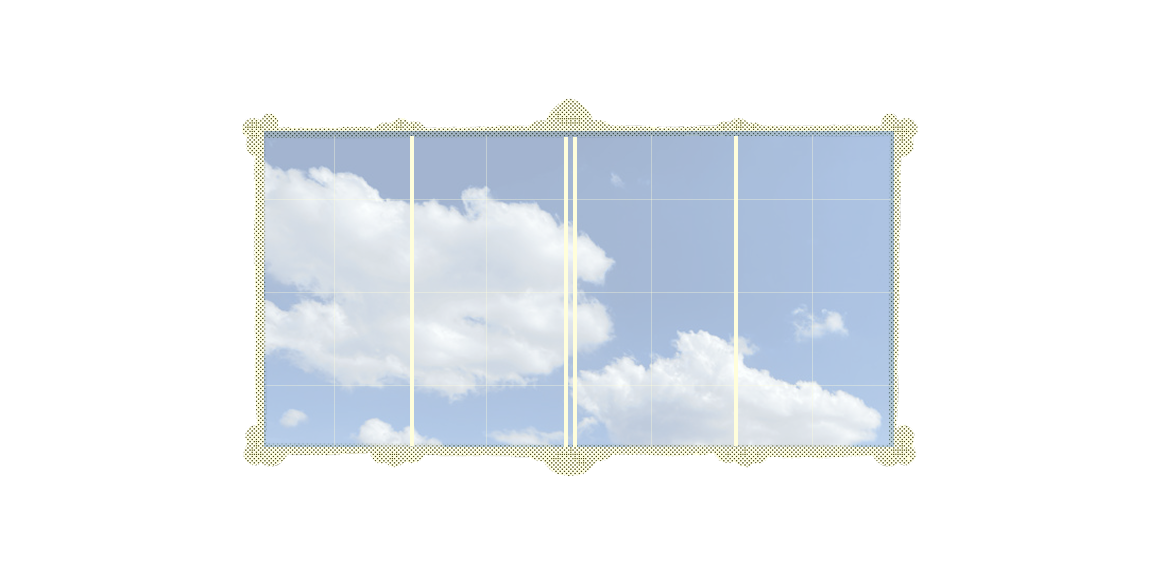
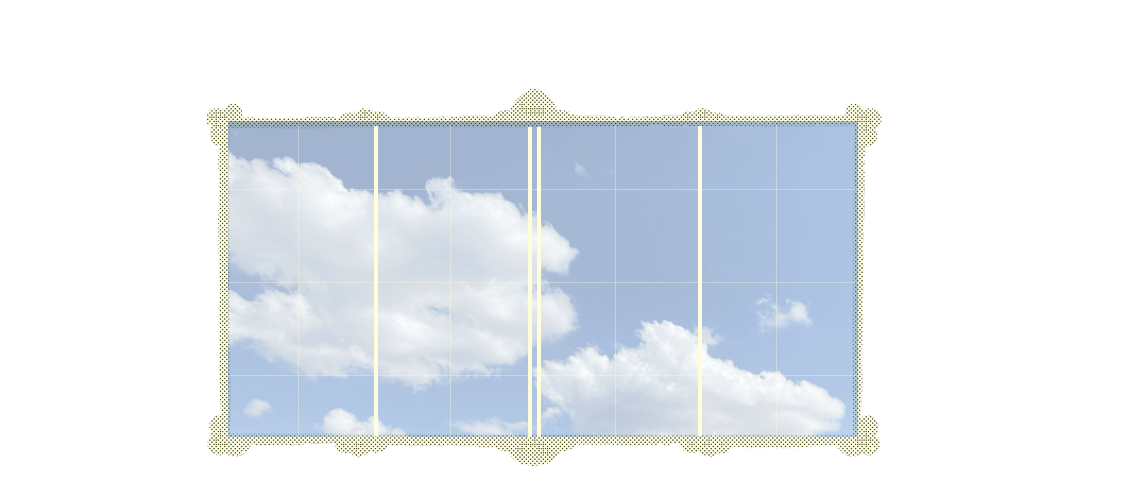
portal fix

diff --git a/styles.css b/styles.css
@@ -17,8 +17,7 @@ main {
     margin:auto;
     display:flex;
     align-items: center;
-    justify-content: center;
-    min-height: 700px;
+    min-height: 550px;
 }
 
 main section {
@@ -210,19 +209,12 @@ section ul li {
 
 #everypicture {
     flex:1;
-    width:150px;
-    margin-left:10px;
 }
 
-#gameon {flex:1;
-    margin-left:35px;
+#gameon {
+    flex:1;
+    
 }
-
-/* main h2 {
-    color: #FFF;
-    margin-top:60px;
-    padding-left:10px;
-} */
 
 footer {
     font-family: "Faculty Glyphic";
@@ -230,7 +222,6 @@ footer {
     display:flex;
     justify-content: center;
     flex:1;
-    margin-top:20px;
 }
 
 .flower {
